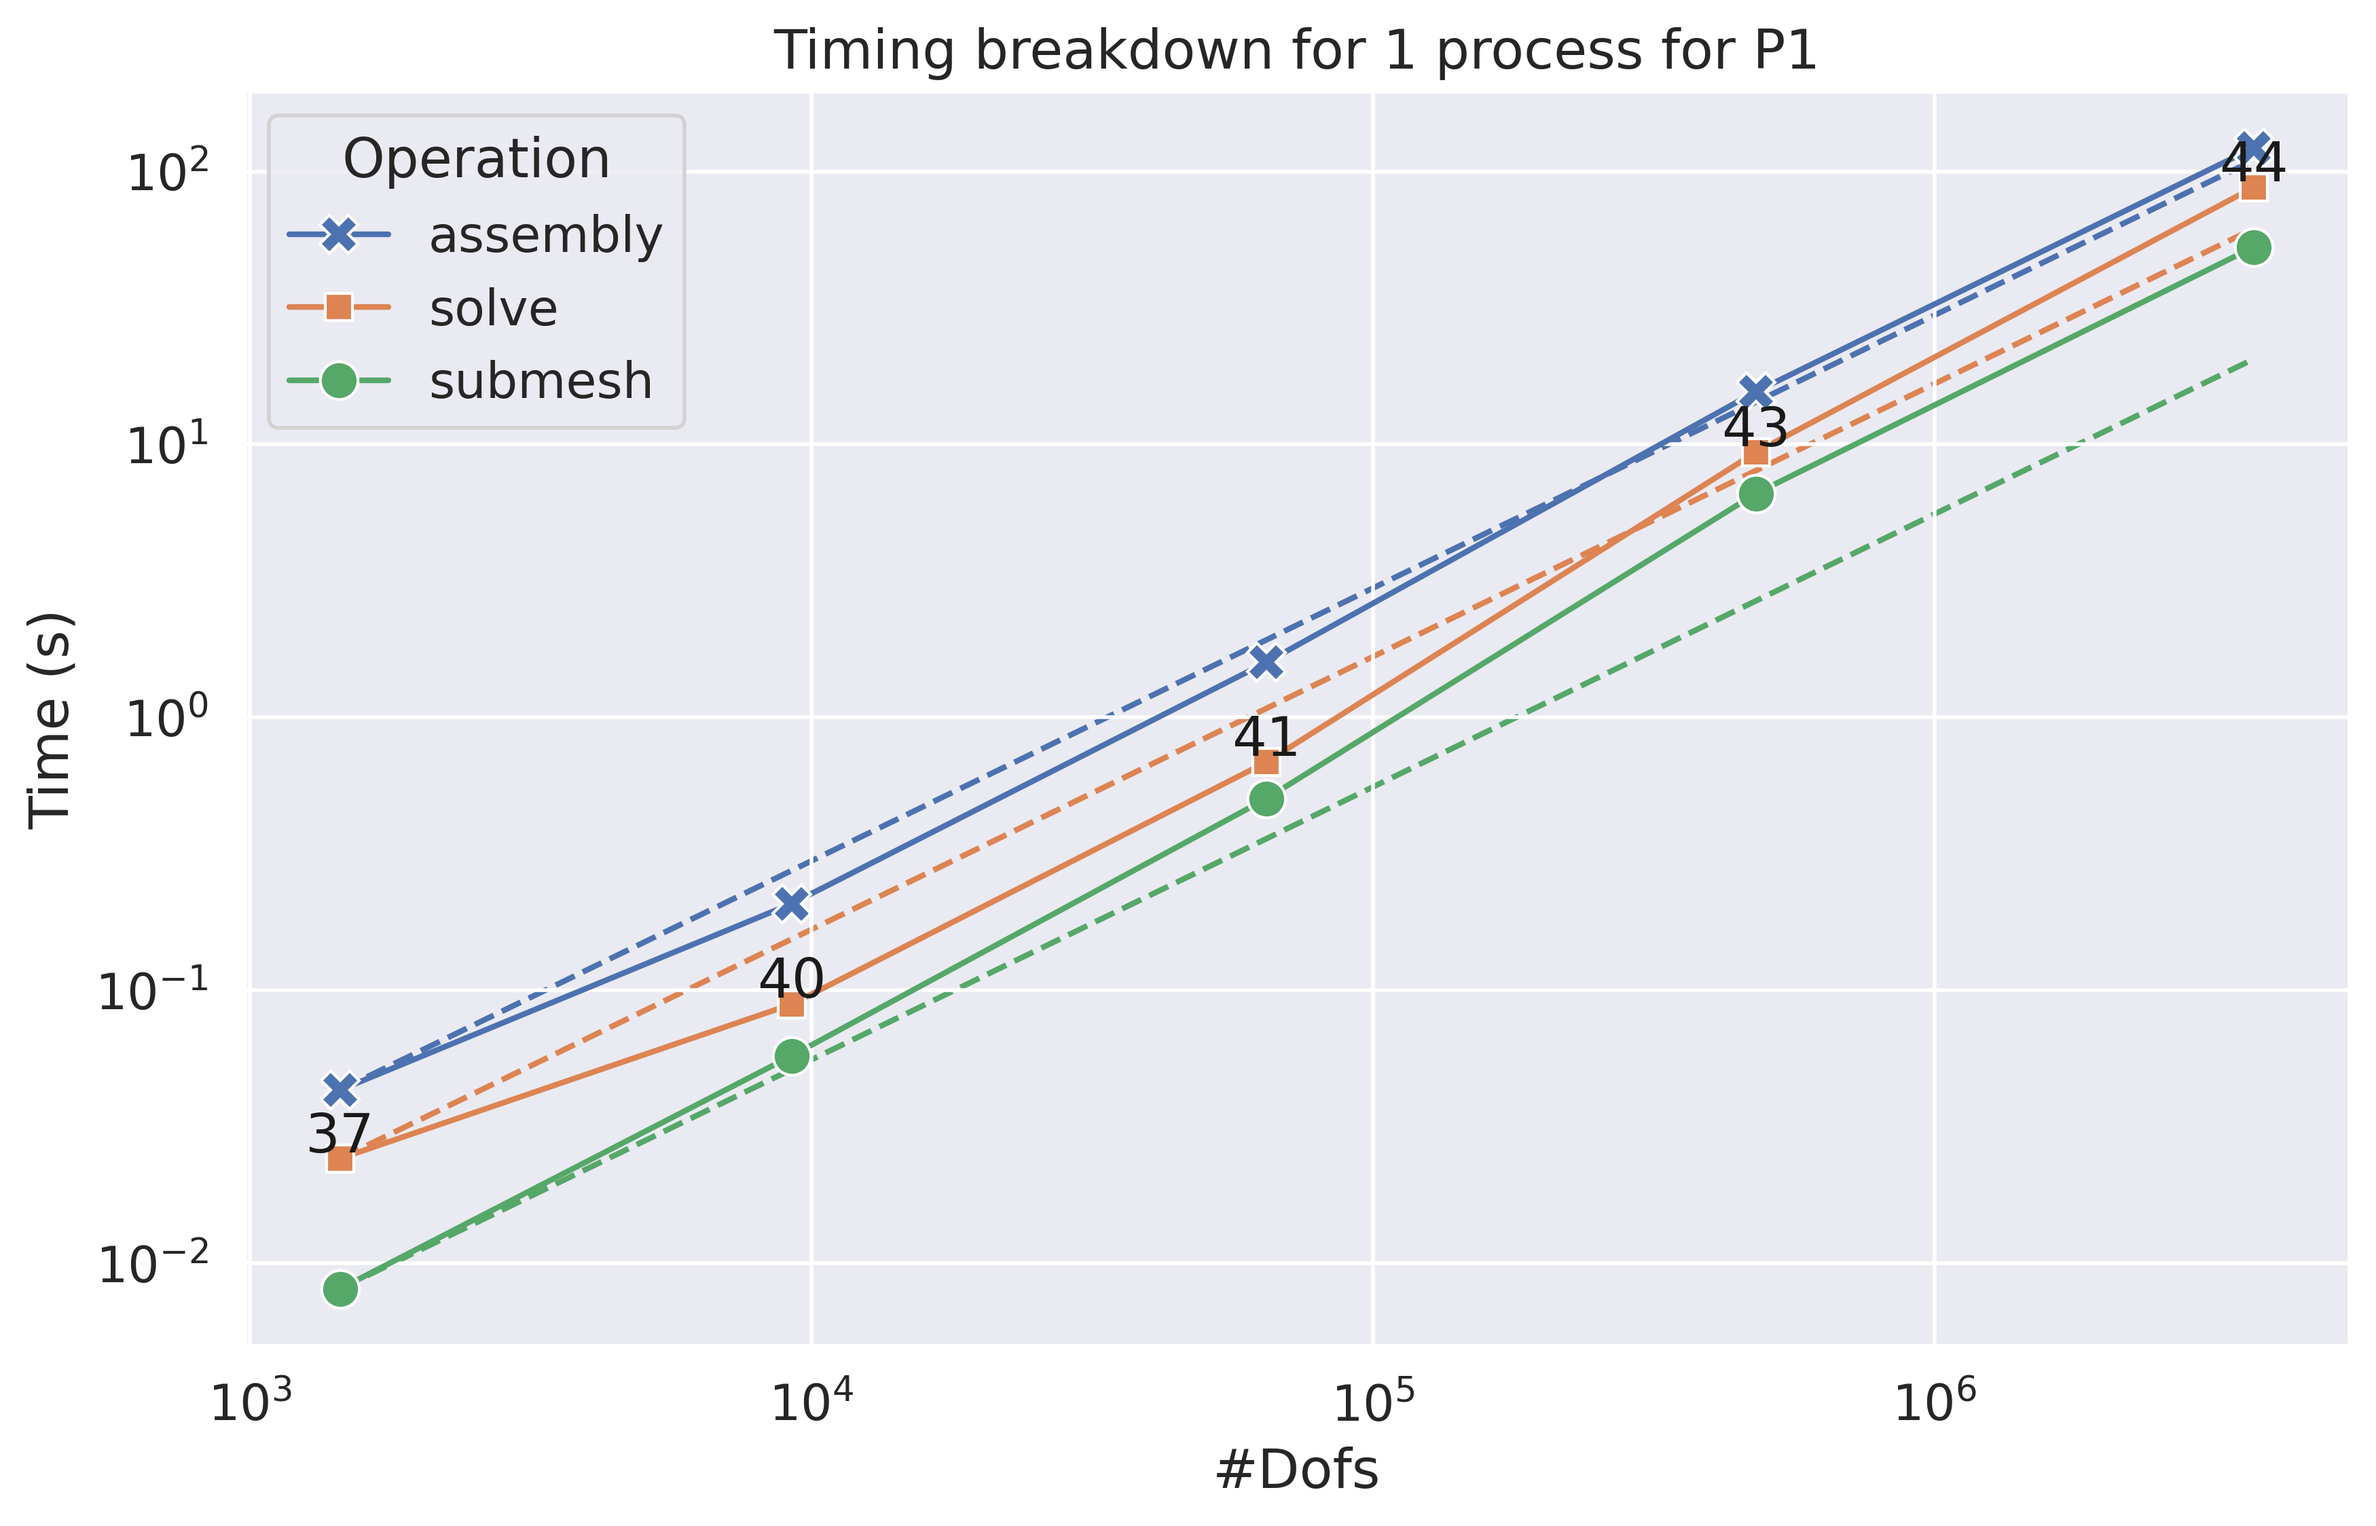
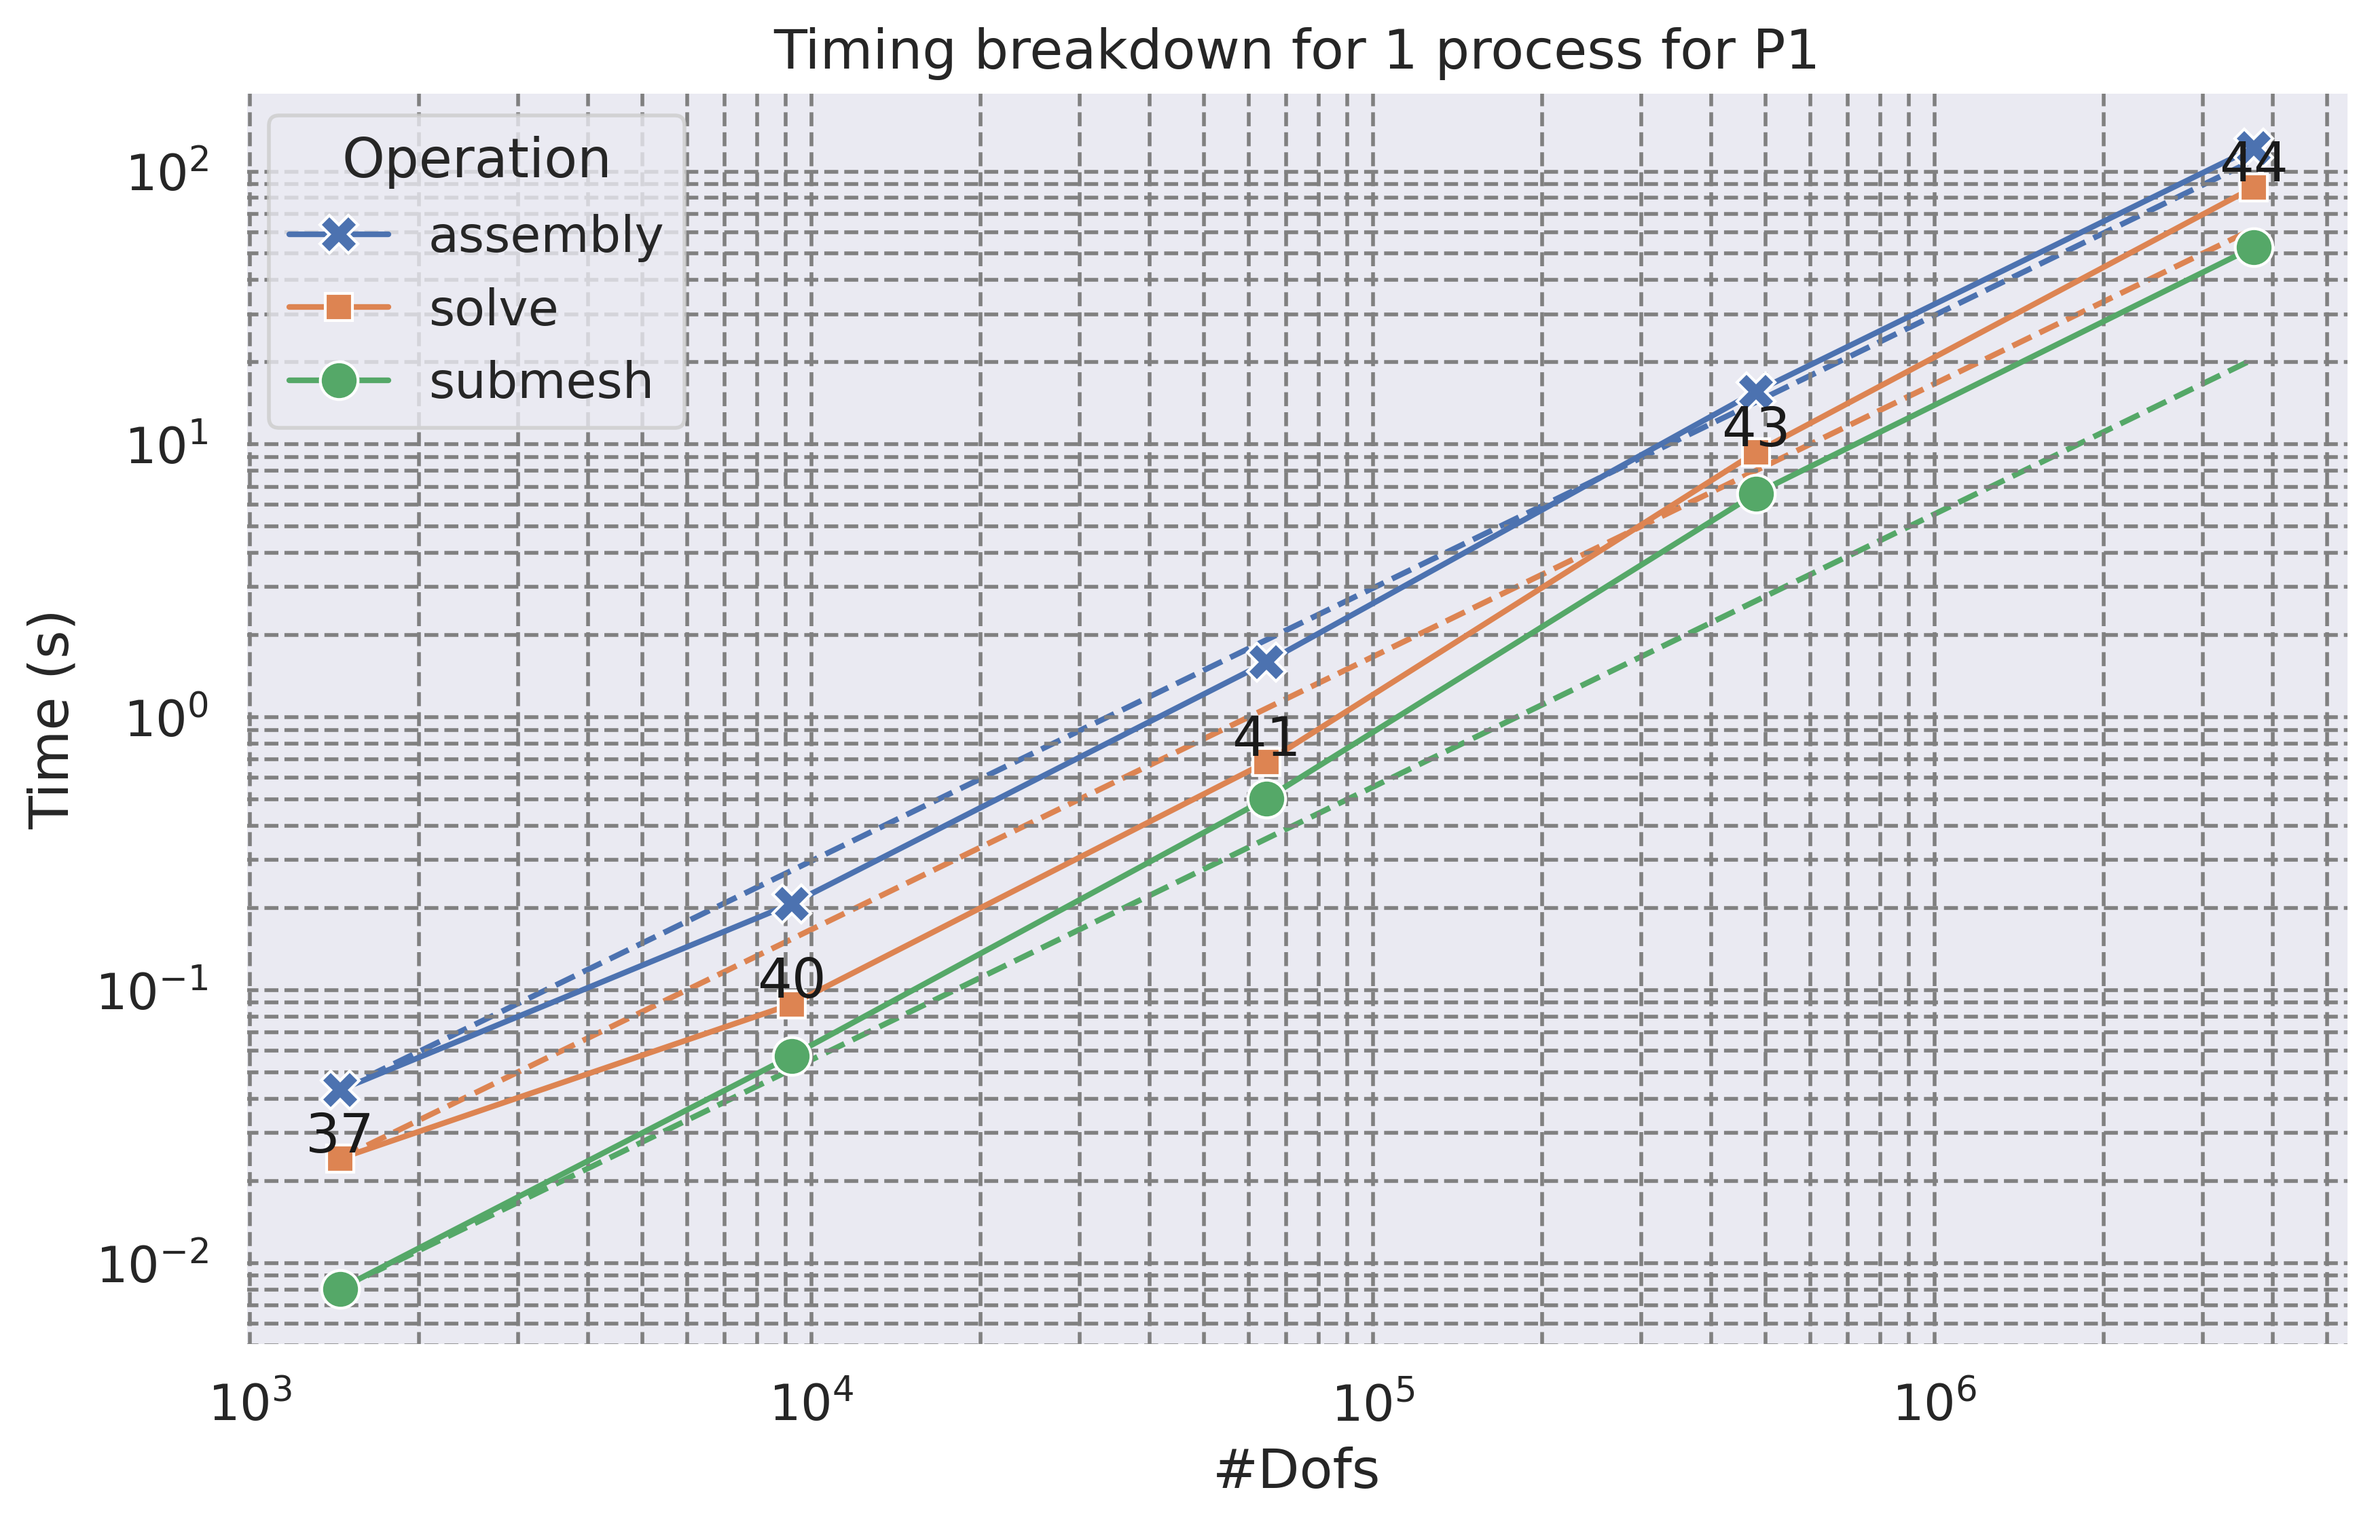
Add more clear log lines

diff --git a/icosahom/code/create_figure.py b/icosahom/code/create_figure.py
@@ -98,6 +98,6 @@ for pos, row in new_df.iterrows():
 ax.set_xscale("log")
 ax.set_yscale("log")
 out_file = f"timing_{args.degree}.png"
-ax.grid(True)
+ax.grid(True, which="both", ls="--", c="gray")
 
 fig.savefig(out_file, bbox_inches="tight")
